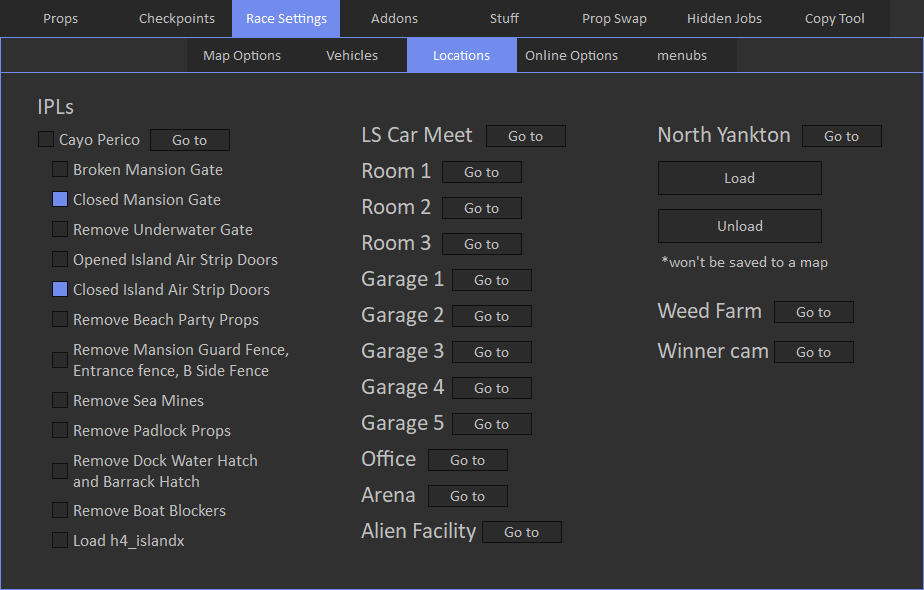
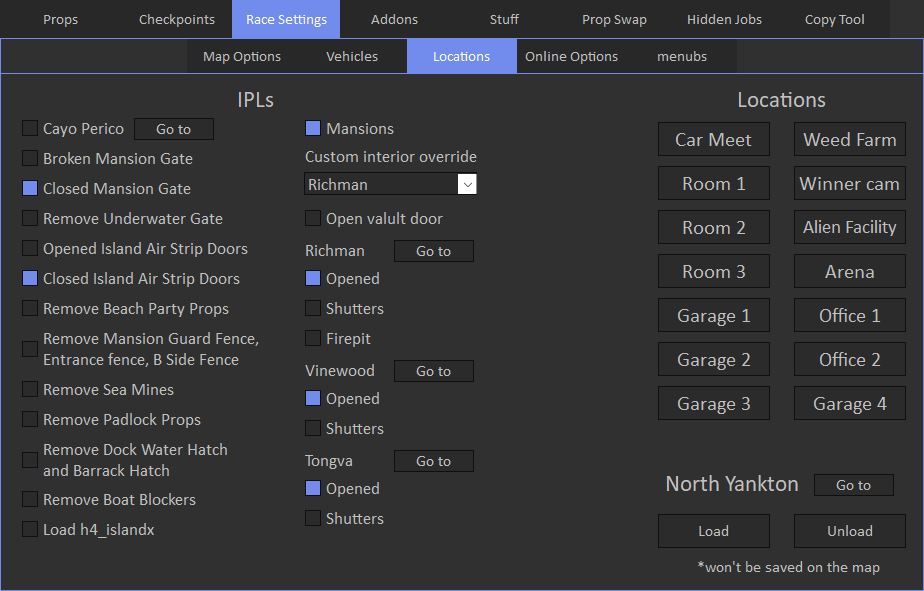
add mansions info

diff --git a/docs/race-settings/locations/overview.md b/docs/race-settings/locations/overview.md
@@ -4,8 +4,14 @@ Locations tab allows to load IPLs.
 
 ![Img1](../../assets/images/race-settings/img03.png)
 
-The only IPL that works in races is Cayo Perico. There are also options to customize things on the island.<br>
+There are also options to customize things on the Cayo Perico.<br>
 **Note:** for Cayo Perico to work in online race, you must set trigger location anywhere in the city, but not on the island, and then use Save/Publish button in the tool.
+
+You can configure mansion options:
+- Custom interior override - mansions interior will be overriden with your purchased mansion, works only in online mode.
+- Open valut door: if checked, vault door will be opened in all mansions, works only in online mode.
+- Opened: if checked, mainsion can be accessed through doors. Interior is not loaded in creator, but it is in online mode.
+- Shutters - show or hide mansion shutters.
 
 LS Car Meet location is under textures, so it's better to explore it when you switch from free camera to vehicle.
 
